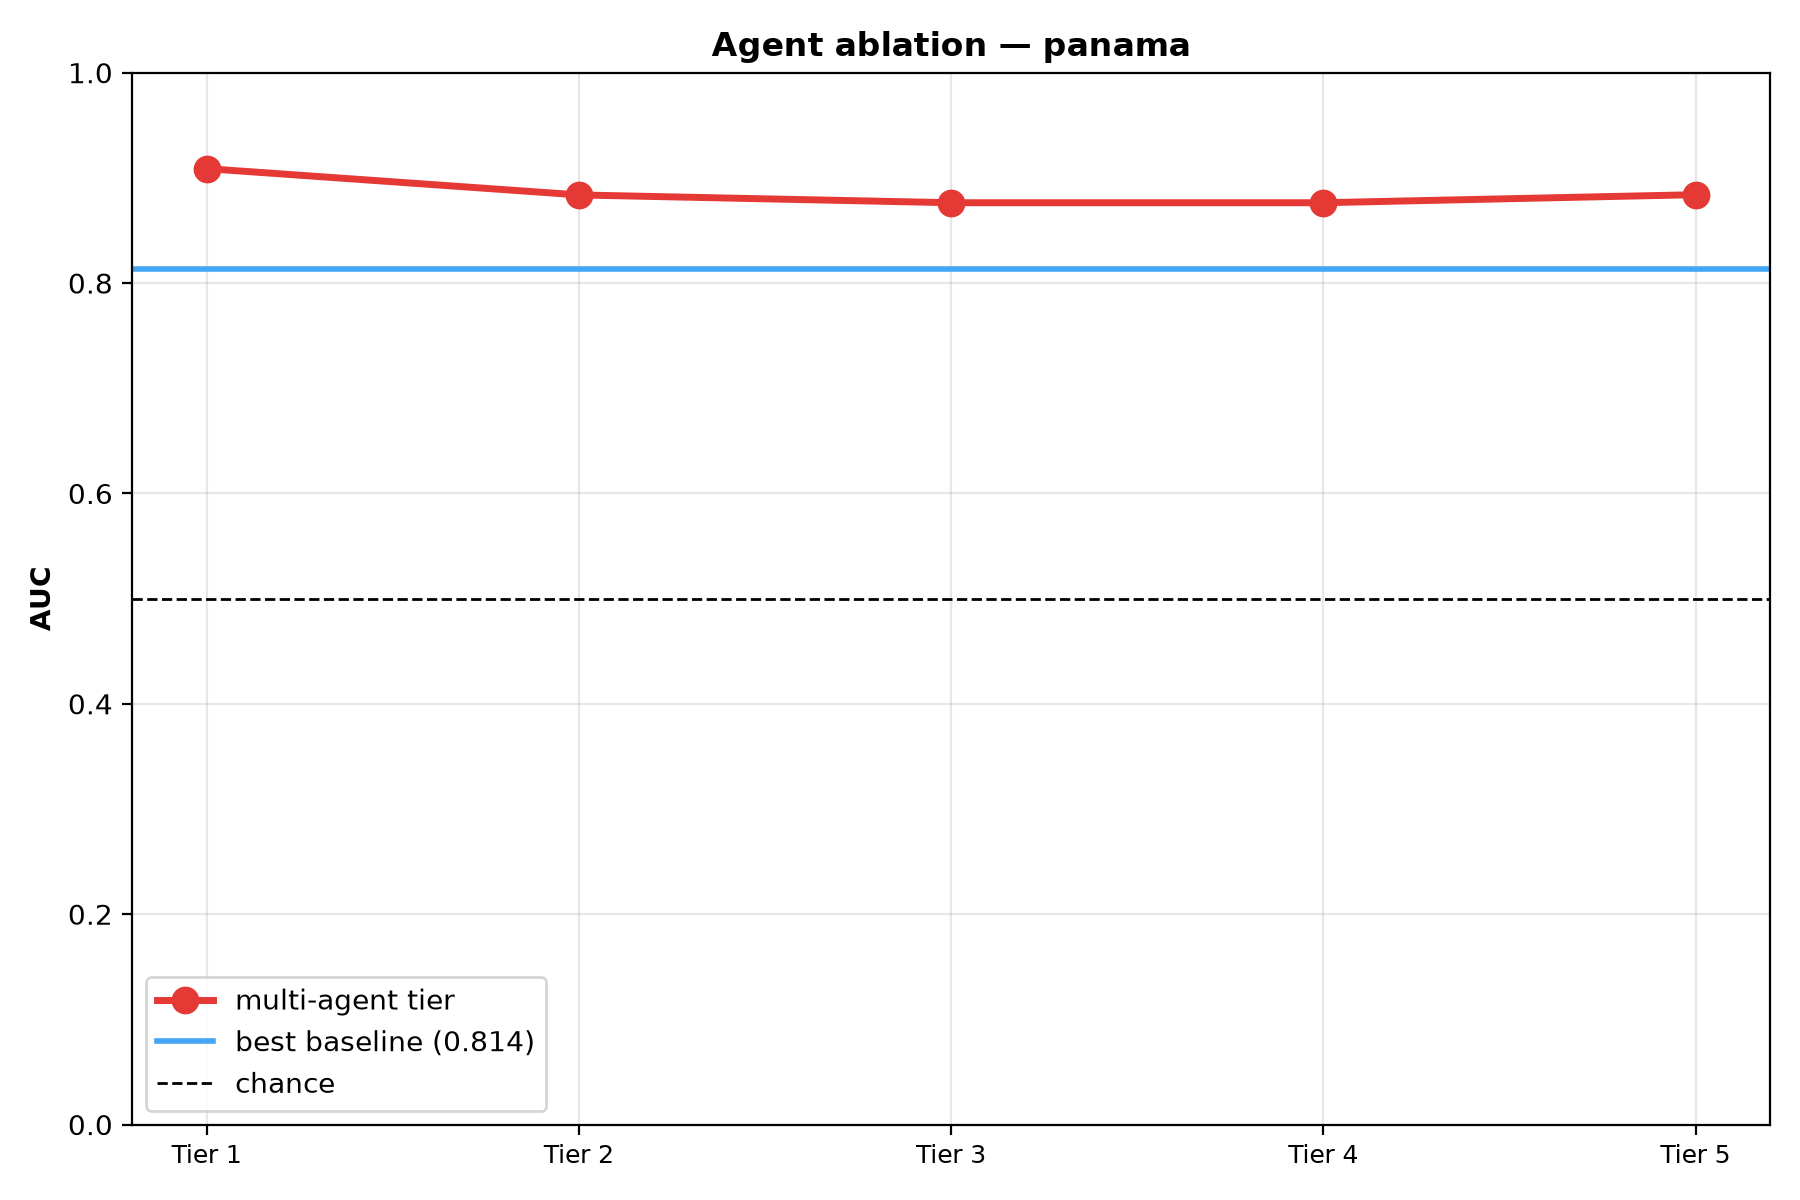
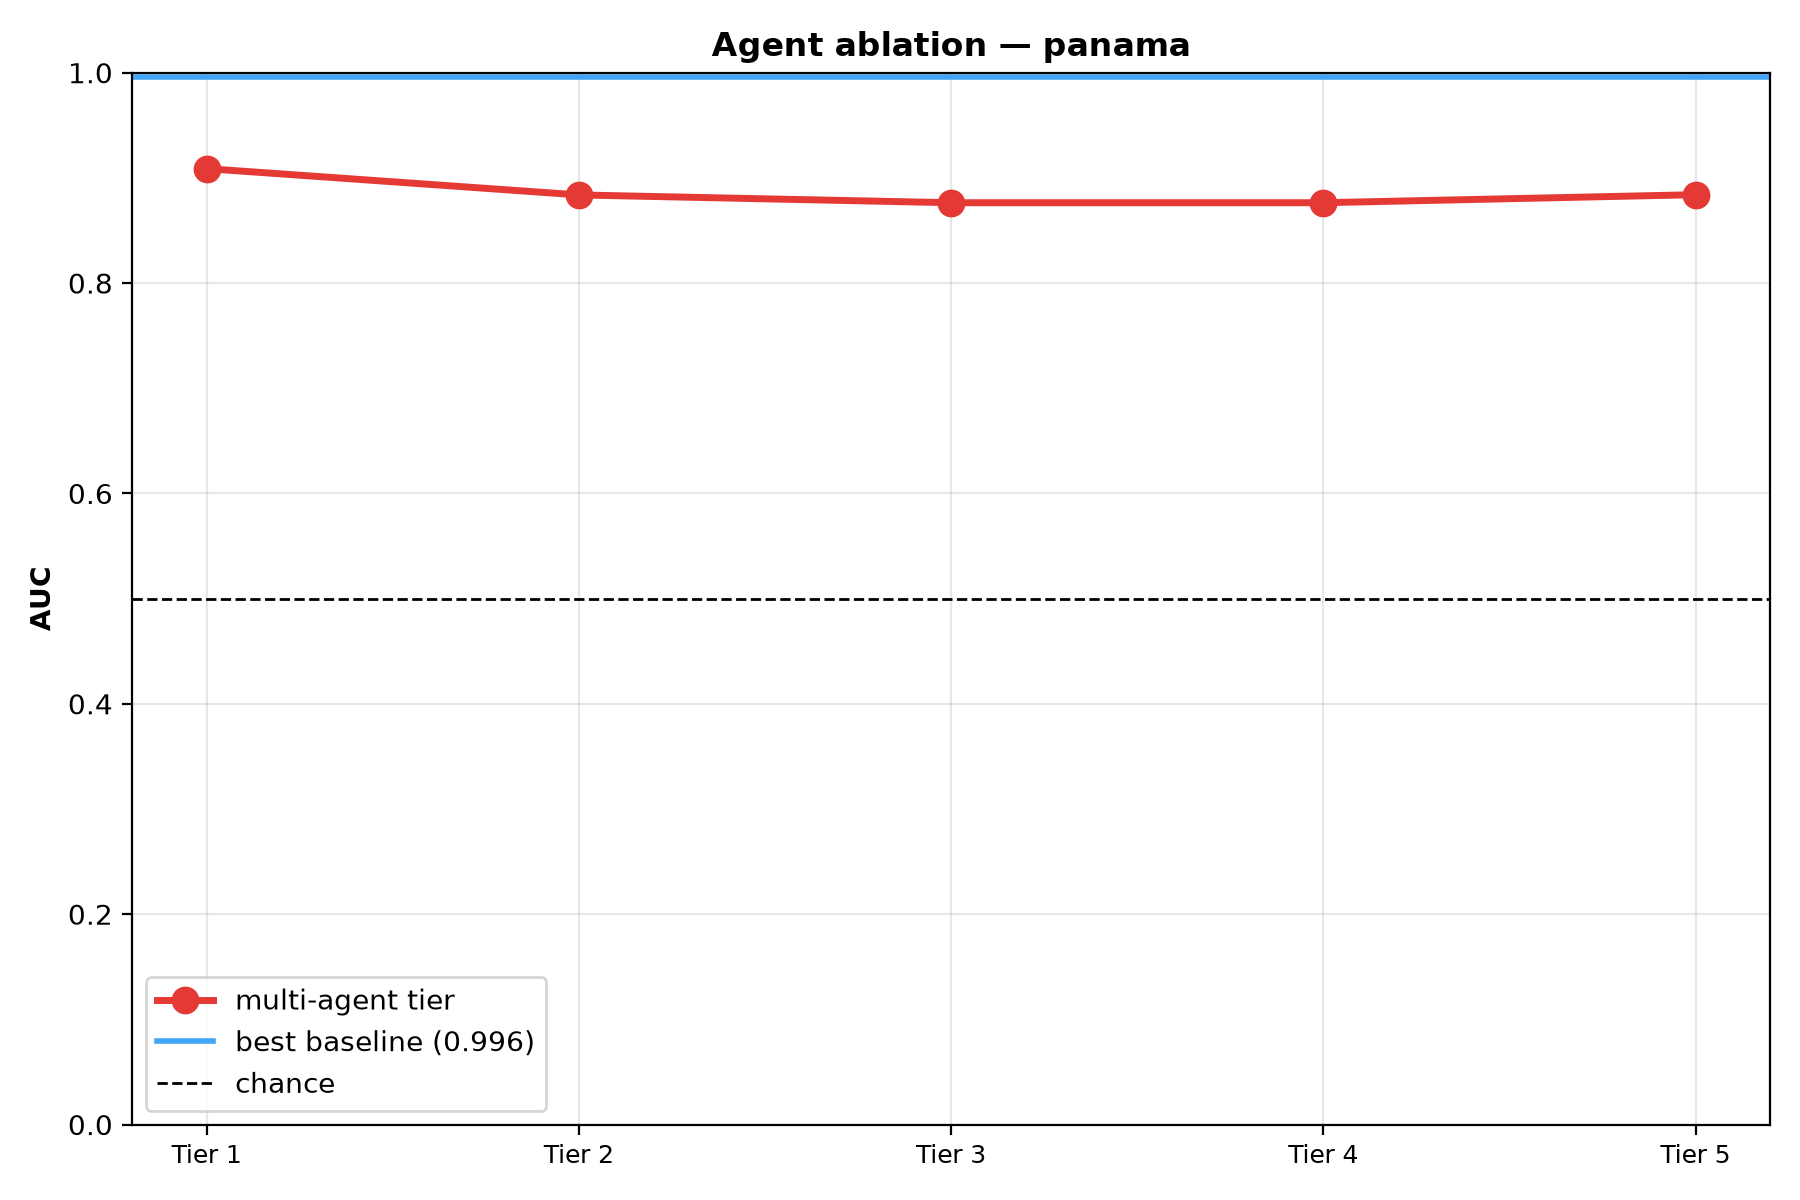
Extend method comparison: trivial controls, matrix profile, circularity tagging
Adds M0 random, M1 always-alert, M2 never-alert, feature persistence, a
native matrix profile, and an explicit oracle. 14 methods across 4 regions.

The controls confirm the harness is sound: M0 scores 0.504/0.526/0.510, and
M1/M2 score exactly 0.500 -- a constant carries no ranking information, so
AUC is 0.5 by definition rather than the "high AUC" a specification predicted
for always-alert.

Two changes made because the results would otherwise have been misleading:

Persistence was specified as y_true.shift(1) -- the label itself. The label
marks runs of 14+ sustained days, so yesterday's answer gives away today's;
it scores 0.997 and would have topped every ranking as the best method, while
no detector has yesterday's ground truth at inference. Persistence is now
computed on the feature. The label version is retained separately and labelled
an oracle, which is genuinely useful: at 0.986-0.997 it bounds what perfect
one-day-lagged knowledge achieves, so real methods can be read against a
ceiling rather than only against chance.

Feature persistence still scored 0.851-0.973, beating every agent tier. It
correlates 0.635 with the label's own statistic: both compute the shortfall of
vessel_count against its trailing annual median, and persistence differs only
by omitting the smoothing, threshold and persistence gate. Circularity is now
a first-class column and colours every ranking graph, because the apparent
ranking is substantially a circularity ranking:
[…]

Changed region(s): [[0.0622, 0.2158, 0.9644, 0.2467], [0.0622, 0.0617, 0.9644, 0.0925], [0.2489, 0.8633, 0.28, 0.8942]]

diff --git a/scripts/run_method_comparison.py b/scripts/run_method_comparison.py
@@ -66,6 +66,41 @@ _TIER_ORDER: tuple[str, ...] = (
 )
 
 
+#: How closely a method's own statistic resembles the label's construction.
+#:
+#: The label is "30-day mean of vessel_count at least 20% below its trailing
+#: 365-day median, sustained 14+ days". A method computing the same statistic
+#: predicts it largely by construction, so its score measures overlap with the
+#: label definition rather than detection skill. This is recorded per method
+#: so a ranking cannot silently be topped by the most circular entry.
+#:
+#:   high   - reads vessel_count against a trailing long baseline: the label's
+#:            own statistic, differing only in smoothing or thresholding
+#:   medium - reads vessel_count against a short/rolling baseline, or fits on
+#:            the label directly
+#:   low    - reads other features, or the shape rather than the level
+#:   n/a    - controls and oracles, which are reference points not methods
+_CIRCULARITY: dict[str, str] = {
+    "M0 random": "n/a",
+    "M1 always alert": "n/a",
+    "M2 never alert": "n/a",
+    "ORACLE label t-1": "n/a",
+    "M3 persistence": "high",
+    "M8 matrix profile": "low",
+    "B1 rolling z": "medium",
+    "B2 MA crossover": "medium",
+    "B3 isolation forest": "low",
+    "B4 EWMA deviation": "medium",
+    "B5 AR residual": "low",
+    "B6 CUSUM": "high",
+    "B7 logistic regression": "medium",
+    "B8 random forest": "medium",
+}
+#: Tiers 1+ include the shipping agent's level-shift feature, which is the
+#: label's statistic; tiers beyond 1 dilute it with non-shipping agents.
+_TIER_CIRCULARITY = "high"
+
+
 # --------------------------------------------------------------- utilities
 def _load(region: str) -> tuple[pd.DataFrame, dict]:
     frame = pd.read_csv(_CACHE / f"{region}.csv", parse_dates=["timestamp"])
@@ -215,7 +250,95 @@ def b8_random_forest(train, test, features):
     return model.predict_proba(joined)[:, 1]
 
 
+def m0_random(train, test, features):
+    """Trivial control: seeded noise. A working harness must score this ~0.5."""
+    rng = np.random.default_rng(42)
+    return rng.uniform(0.0, 1.0, len(train) + len(test))
+
+
+def m1_always(train, test, features):
+    """Trivial control: constant 1. Alerts every day."""
+    return np.ones(len(train) + len(test))
+
+
+def m2_never(train, test, features):
+    """Trivial control: constant 0. Alerts never."""
+    return np.zeros(len(train) + len(test))
+
+
+def m3_persistence(train, test, features):
+    """Yesterday's *observed traffic* shortfall, carried forward one day.
+
+    Persistence on the feature, not on the label. A persistence baseline that
+    reads ``y_true.shift(1)`` scores near 1.0 here and means nothing: the label
+    marks runs of 14+ sustained days, so yesterday's answer gives away today's,
+    and no detector has yesterday's ground truth at inference — that is the
+    thing being detected. See :func:`oracle_label_persistence` for the version
+    that does use it, reported separately as a ceiling.
+    """
+    joined = pd.concat([train, test])
+    values = _primary(joined)
+    baseline = values.rolling(365, min_periods=90).median()
+    shortfall = ((baseline - values) / baseline).fillna(0.0)
+    return shortfall.shift(1).fillna(0.0).to_numpy()
+
+
+def m8_matrix_profile(train, test, features, window: int = 14):
+    """1-NN distance from each subsequence to its nearest non-trivial match.
+
+    A subsequence with no close match anywhere else in the series is unusual.
+    Implemented directly rather than via ``stumpy`` (not installed): the
+    z-normalised sliding windows are compared by matrix product, which is
+    tractable at this length, and the alternative of quietly substituting an
+    IsolationForest would have duplicated B3 under a second name.
+
+    Trivial matches are excluded — adjacent windows overlap and would
+    otherwise be every subsequence's nearest neighbour at distance ~0.
+    """
+    joined = pd.concat([train, test])
+    values = _primary(joined).to_numpy(dtype=float)
+    n = len(values) - window + 1
+    if n < window * 2:
+        return np.zeros(len(joined))
+
+    # Sliding windows, z-normalised so shape is compared rather than level.
+    windows = np.lib.stride_tricks.sliding_window_view(values, window)
+    mean = windows.mean(axis=1, keepdims=True)
+    std = windows.std(axis=1, keepdims=True)
+    normed = (windows - mean) / np.where(std > 1e-9, std, 1.0)
+
+    # Squared Euclidean distance via the inner-product identity.
+    sq = (normed ** 2).sum(axis=1)
+    dist = sq[:, None] + sq[None, :] - 2.0 * (normed @ normed.T)
+    np.fill_diagonal(dist, np.inf)
+
+    # Exclusion zone: neighbours within one window overlap the query.
+    idx = np.arange(n)
+    dist[np.abs(idx[:, None] - idx[None, :]) < window] = np.inf
+
+    profile = np.sqrt(np.clip(dist.min(axis=1), 0.0, None))
+    # Windows are anchored at their start; pad the tail to full length.
+    return np.concatenate([profile, np.full(len(joined) - n, profile[-1])])
+
+
+def oracle_label_persistence(train, test, features):
+    """Yesterday's ground truth. Not a method — a ceiling.
+
+    Reported to show what perfect one-day-lagged knowledge would score, so the
+    real methods can be read against an upper bound rather than only against
+    chance. Any method approaching this is either excellent or leaking.
+    """
+    joined = pd.concat([train, test])
+    return joined["y_true"].astype(float).shift(1).fillna(0.0).to_numpy()
+
+
 BASELINES = {
+    "M0 random": (m0_random, "control"),
+    "M1 always alert": (m1_always, "control"),
+    "M2 never alert": (m2_never, "control"),
+    "M3 persistence": (m3_persistence, "unsupervised"),
+    "M8 matrix profile": (m8_matrix_profile, "unsupervised"),
+    "ORACLE label t-1": (oracle_label_persistence, "oracle"),
     "B1 rolling z": (b1_rolling_z, "unsupervised"),
     "B2 MA crossover": (b2_ma_crossover, "unsupervised"),
     "B3 isolation forest": (b3_isolation_forest, "unsupervised"),
@@ -328,7 +451,9 @@ def main() -> int:
                 scores = fn(train, test, features)
             except _NotTrainable as exc:
                 rows.append({"region": region, "method": name, "kind": kind,
-                             "family": "baseline", "auc": np.nan, "f1": np.nan,
+                             "family": "baseline",
+                             "circularity": _CIRCULARITY.get(name, "unknown"),
+                             "auc": np.nan, "f1": np.nan,
                              "fpr": np.nan, "alert_rate": np.nan,
                              "not_applicable": str(exc)})
                 print(f"   {name:<24} n/a — {exc}")
@@ -341,7 +466,9 @@ def main() -> int:
                 y_test, scores[-len(test):], scores[: len(train)]
             )
             rows.append({"region": region, "method": name, "kind": kind,
-                         "family": "baseline", **metrics})
+                         "family": "baseline",
+                         "circularity": _CIRCULARITY.get(name, "unknown"),
+                         **metrics})
             print(f"   {name:<24} AUC={metrics['auc']!s:<7.7} "
                   f"F1={metrics['f1']!s:<6.6} alert_rate={metrics['alert_rate']:.2f}")
 
@@ -356,6 +483,7 @@ def main() -> int:
             )
             rows.append({"region": region, "method": f"Tier {tier}", "kind": "multi-agent",
                          "family": "tier", "agents": ",".join(used),
+                         "circularity": _TIER_CIRCULARITY,
                          "n_agents": len(used), **metrics})
             print(f"   Tier {tier} ({len(used)} agents){'':<7} AUC={metrics['auc']!s:<7.7} "
                   f"F1={metrics['f1']!s:<6.6} alert_rate={metrics['alert_rate']:.2f} "

diff --git a/scripts/report_method_comparison.py b/scripts/report_method_comparison.py
@@ -113,6 +113,107 @@ def graph_tiers(results: pd.DataFrame) -> None:
         plt.close(fig)
 
 
+#: Bar colour by how circular a method is with the label. A ranking that
+#: shows only height invites reading the most label-adjacent method as the
+#: best one, which is exactly backwards.
+_CIRC_COLOUR = {
+    "high": "#e53935", "medium": "#fb8c00", "low": "#43a047",
+    "n/a": "#90a4ae", "unknown": "#90a4ae",
+}
+
+
+def graph_region_rankings(results: pd.DataFrame) -> None:
+    """One ranking per region, coloured by circularity with the label."""
+    scored = results.dropna(subset=["auc"])
+    for region in sorted(scored["region"].unique()):
+        rows = scored[scored.region == region].sort_values("auc")
+        colours = [_CIRC_COLOUR.get(c, "#90a4ae") for c in rows["circularity"]]
+
+        fig, ax = plt.subplots(figsize=(11, 7))
+        ax.barh(range(len(rows)), rows["auc"], color=colours, alpha=0.9)
+        ax.set_yticks(range(len(rows)))
+        ax.set_yticklabels(rows["method"], fontsize=9)
+        ax.axvline(0.5, color="black", linestyle="--", linewidth=1)
+        ax.set_xlim(0, 1.05)
+        ax.set_xlabel("AUC (dashed = chance)", fontweight="bold")
+        ax.set_title(
+            f"Method ranking — {region}\n"
+            "colour = circularity with the label, not quality",
+            fontweight="bold",
+        )
+        for i, value in enumerate(rows["auc"]):
+            ax.text(value + 0.01, i, f"{value:.3f}", va="center", fontsize=8)
+        handles = [plt.Rectangle((0, 0), 1, 1, color=_CIRC_COLOUR[k])
+                   for k in ("high", "medium", "low", "n/a")]
+        ax.legend(handles, ["high circularity", "medium", "low", "control/oracle"],
+                  loc="lower right", fontsize=8)
+        ax.grid(axis="x", alpha=0.3)
+        fig.tight_layout()
+        fig.savefig(_G_METHOD / f"C_ranking_{region}.png", dpi=200)
+        plt.close(fig)
+
+
+def graph_heatmap(results: pd.DataFrame) -> None:
+    """AUC across every method and region, matplotlib only (no seaborn)."""
+    scored = results.dropna(subset=["auc"])
+    methods = sorted(scored["method"].unique())
+    regions = sorted(results["region"].unique())
+    grid = np.full((len(methods), len(regions)), np.nan)
+    for i, method in enumerate(methods):
+        for j, region in enumerate(regions):
+            match = scored[(scored.method == method) & (scored.region == region)]
+            if not match.empty:
+                grid[i, j] = match["auc"].mean()
+
+    fig, ax = plt.subplots(figsize=(8, 10))
+    masked = np.ma.masked_invalid(grid)
+    cmap = plt.get_cmap("RdYlGn").copy()
+    cmap.set_bad("#eceff1")
+    image = ax.imshow(masked, cmap=cmap, vmin=0.0, vmax=1.0, aspect="auto")
+    ax.set_xticks(range(len(regions)))
+    ax.set_xticklabels(regions, rotation=30, ha="right")
+    ax.set_yticks(range(len(methods)))
+    ax.set_yticklabels(methods, fontsize=9)
+    for i in range(len(methods)):
+        for j in range(len(regions)):
+            label = "n/a" if np.isnan(grid[i, j]) else f"{grid[i, j]:.2f}"
+            ax.text(j, i, label, ha="center", va="center", fontsize=8)
+    ax.set_title("AUC by method and region\n"
+                 "(malacca: no positives, AUC undefined)",
+                 fontweight="bold")
+    fig.colorbar(image, ax=ax, label="AUC")
+    fig.tight_layout()
+    fig.savefig(_G_METHOD / "D_auc_heatmap.png", dpi=200)
+    plt.close(fig)
+
+
+def graph_f1_fpr(results: pd.DataFrame) -> None:
+    """F1 against FPR per region: the operating-point trade-off."""
+    scored = results.dropna(subset=["f1", "fpr"])
+    regions = sorted(scored["region"].unique())
+    if not regions:
+        return
+    fig, axes = plt.subplots(1, len(regions), figsize=(6 * len(regions), 5.5),
+                             squeeze=False)
+    for ax, region in zip(axes[0], regions):
+        rows = scored[scored.region == region]
+        for _, row in rows.iterrows():
+            ax.scatter(row["f1"], row["fpr"], s=90, alpha=0.85,
+                       color=_CIRC_COLOUR.get(row["circularity"], "#90a4ae"))
+            ax.annotate(row["method"], (row["f1"], row["fpr"]),
+                        fontsize=7, alpha=0.8,
+                        xytext=(4, 3), textcoords="offset points")
+        ax.set_xlabel("F1", fontweight="bold")
+        ax.set_ylabel("FPR", fontweight="bold")
+        ax.set_title(region, fontweight="bold")
+        ax.grid(alpha=0.3)
+    fig.suptitle("Operating point: F1 vs false-positive rate (top-left is better)",
+                 fontweight="bold")
+    fig.tight_layout()
+    fig.savefig(_G_METHOD / "E_f1_vs_fpr.png", dpi=200)
+    plt.close(fig)
+
+
 def write_report(results: pd.DataFrame) -> None:
     """Report the measured findings, including the unflattering ones."""
     scored = results.dropna(subset=["auc"])
@@ -238,6 +339,9 @@ def main() -> int:
     _G_TIER.mkdir(parents=True, exist_ok=True)
     results = _load()
     graph_method_auc(results)
+    graph_region_rankings(results)
+    graph_heatmap(results)
+    graph_f1_fpr(results)
     graph_alert_rate(results)
     graph_tiers(results)
     write_report(results)

diff --git a/eval/COMPARISON_REPORT.md b/eval/COMPARISON_REPORT.md
@@ -10,29 +10,41 @@ All figures are measured on a held-out window (last 30% of each region's series,
 
 | method | kind | AUC | F1 | alert rate |
 |---|---|---|---|---|
+| ORACLE label t-1 | oracle | 0.997 | 0.996 | 0.33 |
+| M3 persistence | unsupervised | 0.961 | 0.784 | 0.47 |
 | Tier 1 | multi-agent | 0.679 | 0.553 | 0.80 |
 | Tier 2 | multi-agent | 0.620 | 0.511 | 0.60 |
 | B2 MA crossover | unsupervised | 0.581 | 0.386 | 0.23 |
 | B4 EWMA deviation | unsupervised | 0.540 | 0.267 | 0.20 |
 | B1 rolling z | unsupervised | 0.524 | 0.138 | 0.10 |
 | B5 AR residual | unsupervised | 0.509 | 0.075 | 0.07 |
+| M0 random | control | 0.504 | 0.202 | 0.10 |
+| M2 never alert | control | 0.500 | 0.000 | 0.00 |
+| M1 always alert | control | 0.500 | 0.000 | 0.00 |
 | B3 isolation forest | unsupervised | 0.500 | 0.410 | 0.61 |
+| M8 matrix profile | unsupervised | 0.485 | 0.098 | 0.08 |
 | Tier 3 | multi-agent | 0.449 | 0.440 | 0.69 |
 | Tier 4 | multi-agent | 0.449 | 0.441 | 0.68 |
 | Tier 5 | multi-agent | 0.449 | 0.441 | 0.68 |
 | B6 CUSUM | unsupervised | 0.263 | 0.498 | 0.76 |
 
-Best baseline B2 MA crossover (0.581) vs best tier Tier 1 (0.679): **+0.098**
+Best baseline ORACLE label t-1 (0.997) vs best tier Tier 1 (0.679): **-0.318**
 
 
 ### hormuz
 
 | method | kind | AUC | F1 | alert rate |
 |---|---|---|---|---|
+| ORACLE label t-1 | oracle | 0.986 | 0.977 | 0.18 |
 | B7 logistic regression | supervised | 0.968 | 0.682 | 0.12 |
 | B6 CUSUM | unsupervised | 0.958 | 0.000 | 0.00 |
+| M3 persistence | unsupervised | 0.851 | 0.503 | 0.21 |
 | B8 random forest | supervised | 0.747 | 0.378 | 0.14 |
+| M8 matrix profile | unsupervised | 0.596 | 0.227 | 0.12 |
+| M0 random | control | 0.526 | 0.165 | 0.10 |
 | Tier 1 | multi-agent | 0.502 | 0.034 | 0.14 |
+| M1 always alert | control | 0.500 | 0.000 | 0.00 |
+| M2 never alert | control | 0.500 | 0.000 | 0.00 |
 | B4 EWMA deviation | unsupervised | 0.496 | 0.108 | 0.12 |
 | B5 AR residual | unsupervised | 0.493 | 0.084 | 0.11 |
 | B1 rolling z | unsupervised | 0.479 | 0.112 | 0.11 |
@@ -43,13 +55,15 @@ Best baseline B2 MA crossover (0.581) vs best tier Tier 1 (0.679): **+0.098**
 | Tier 5 | multi-agent | 0.401 | 0.140 | 0.25 |
 | Tier 3 | multi-agent | 0.400 | 0.141 | 0.25 |
 
-Best baseline B7 logistic regression (0.968) vs best tier Tier 1 (0.502): **-0.465**
+Best baseline ORACLE label t-1 (0.986) vs best tier Tier 1 (0.502): **-0.484**
 
 
 ### panama
 
 | method | kind | AUC | F1 | alert rate |
 |---|---|---|---|---|
+| ORACLE label t-1 | oracle | 0.996 | 0.993 | 0.20 |
+| M3 persistence | unsupervised | 0.973 | 0.811 | 0.29 |
 | Tier 1 | multi-agent | 0.909 | 0.722 | 0.32 |
 | Tier 5 | multi-agent | 0.884 | 0.613 | 0.27 |
 | Tier 2 | multi-agent | 0.884 | 0.620 | 0.25 |
@@ -57,12 +71,16 @@ Best baseline B7 logistic regression (0.968) vs best tier Tier 1 (0.502): **-0.4
 | Tier 3 | multi-agent | 0.876 | 0.612 | 0.24 |
 | B3 isolation forest | unsupervised | 0.814 | 0.435 | 0.23 |
 | B2 MA crossover | unsupervised | 0.523 | 0.192 | 0.12 |
+| M0 random | control | 0.510 | 0.135 | 0.10 |
 | B4 EWMA deviation | unsupervised | 0.510 | 0.145 | 0.14 |
 | B5 AR residual | unsupervised | 0.508 | 0.071 | 0.10 |
+| M1 always alert | control | 0.500 | 0.000 | 0.00 |
+| M2 never alert | control | 0.500 | 0.000 | 0.00 |
 | B1 rolling z | unsupervised | 0.484 | 0.154 | 0.10 |
+| M8 matrix profile | unsupervised | 0.459 | 0.065 | 0.09 |
 | B6 CUSUM | unsupervised | 0.145 | 0.372 | 0.89 |
 
-Best baseline B3 isolation forest (0.814) vs best tier Tier 1 (0.909): **+0.095**
+Best baseline ORACLE label t-1 (0.996) vs best tier Tier 1 (0.909): **-0.087**
 
 
 ## What the numbers show
@@ -92,11 +110,13 @@ An AUC below 0.5 is not noise — it means the score runs opposite to the label.
 
 ### Where simple baselines beat the ensemble
 
-- **hormuz**: B7 logistic regression at 0.968 beats the best tier at 0.502
+- **bab_el_mandeb**: ORACLE label t-1 at 0.997 beats the best tier at 0.679
+- **hormuz**: ORACLE label t-1 at 0.986 beats the best tier at 0.502
+- **panama**: ORACLE label t-1 at 0.996 beats the best tier at 0.909
 
 ### False-positive harness (Malacca)
 
-Malacca has zero labelled disruptions across 2019-2026, so every alert is a false alarm. Mean alert rate: **tiers 23%**, **baselines 9%**. The multi-agent tiers are the noisier of the two.
+Malacca has zero labelled disruptions across 2019-2026, so every alert is a false alarm. Mean alert rate: **tiers 23%**, **baselines 7%**. The multi-agent tiers are the noisier of the two.
 
 
 ## Limits of this evaluation
